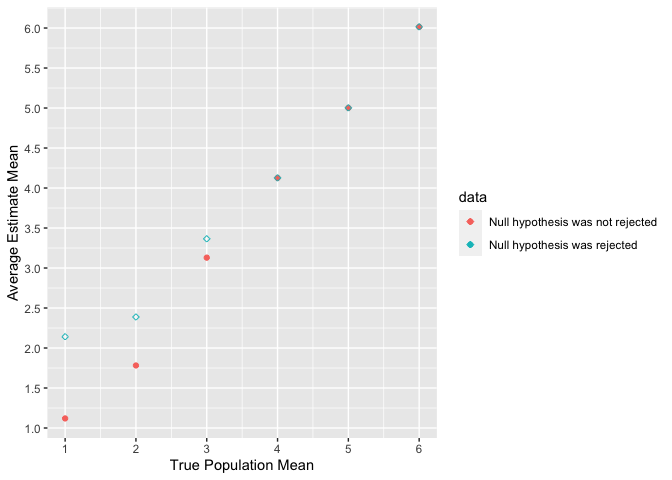
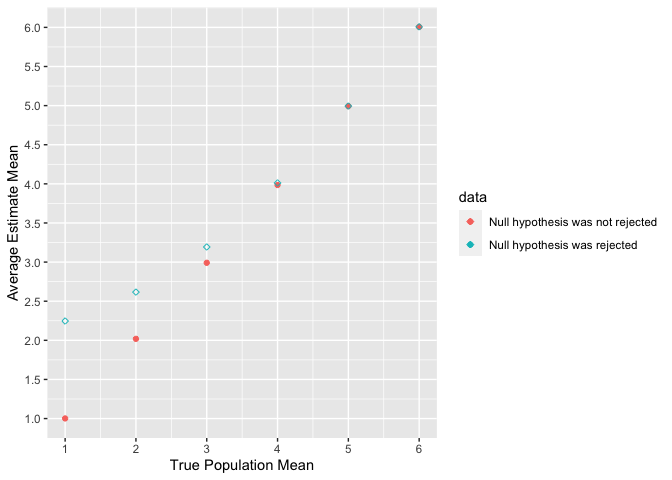
commit -- final

diff --git a/p8105_hw5_VK2480.md b/p8105_hw5_VK2480.md
@@ -1,4 +1,4 @@
-Homework-2
+Homework-5
 ================
 
 ## Library calls
@@ -15,10 +15,6 @@ library(tidyverse)
     ## ── Conflicts ────────────────────────────────────────── tidyverse_conflicts() ──
     ## ✖ dplyr::filter() masks stats::filter()
     ## ✖ dplyr::lag()    masks stats::lag()
-
-``` r
-library(readxl)
-```
 
 ## Problem 1
 
@@ -233,7 +229,10 @@ homicide_df = read_csv("homicide-data.csv") %>%
     ## ℹ Use `spec()` to retrieve the full column specification for this data.
     ## ℹ Specify the column types or set `show_col_types = FALSE` to quiet this message.
 
-Describe raw data:
+Describe raw data: This dataset contains 52179 rows and 12 variables. It
+provides information about homicides in 50 US cities. Some of the
+important variables in this dataset include: date of homicide, city,
+state, and the state/disposition of the homicide case.
 
 ``` r
 # create city_state variable
@@ -260,22 +259,36 @@ homicide_df = left_join(total_homicides_df, unsolved_homicides_df)
 
 ``` r
 # Prop.test for Baltimore
-baltimore_homicides = homicide_df %>%
-  filter(city == "Baltimore")
 
-balt_prop_test = prop.test(x = baltimore_homicides$unsolved_homicides, n = baltimore_homicides$total_homicides) %>%
-  broom::tidy() %>%
+# create function to return tidy version of prop.test results
+prop_test_results <- function(prop_x, prop_n) {
+  
+  prop_test_list = prop.test(prop_x, prop_n)
+  prop_test_list = broom::tidy(prop_test_list)
+}
+
+balt_prop_test = homicide_df %>%
+  filter(city == "Baltimore") %>%
+  mutate(
+    t_test = prop_test_results(prop_x = unsolved_homicides, prop_n = total_homicides)) %>%
+  unnest(cols = t_test) %>%
   select(estimate, conf.low, conf.high) %>%
   mutate(
     CI = str_c(conf.low, ",", conf.high)
   )
+```
+
+    ## Adding missing grouping variables: `city`
+
+``` r
 balt_prop_test
 ```
 
-    ## # A tibble: 1 × 4
-    ##   estimate conf.low conf.high CI                                 
-    ##      <dbl>    <dbl>     <dbl> <chr>                              
-    ## 1    0.646    0.628     0.663 0.627562457662644,0.663159860401662
+    ## # A tibble: 1 × 5
+    ## # Groups:   city [1]
+    ##   city      estimate conf.low conf.high CI                                 
+    ##   <chr>        <dbl>    <dbl>     <dbl> <chr>                              
+    ## 1 Baltimore    0.646    0.628     0.663 0.627562457662644,0.663159860401662
 
 ``` r
 # Run prop.test for each of the cities in your dataset, and extract both the proportion of unsolved homicides and the confidence interval for each city.
@@ -325,33 +338,17 @@ sim_mean_pvalue = function(mu = 0, sigma = 5, samp_num = 30) {
   sim_data %>% 
     summarize(
       mu_hat = mean(x),
-      p_value = broom::tidy(t.test(x))[[3]],
+      p_value = broom::tidy(t.test(x))[[3]]
     )
 }
 
-a_sampl = rnorm(30, 2, 0.5)
-t.test(a_sampl)
-```
 
-    ## 
-    ##  One Sample t-test
-    ## 
-    ## data:  a_sampl
-    ## t = 24.915, df = 29, p-value < 2.2e-16
-    ## alternative hypothesis: true mean is not equal to 0
-    ## 95 percent confidence interval:
-    ##  1.893675 2.232374
-    ## sample estimates:
-    ## mean of x 
-    ##  2.063025
-
-``` r
 ## step 2: Generate 5000 simulation datasets with mu=0, using the above function
 
 sim0_results_df = 
   expand_grid(
     mu = 0,
-    iter = 1:50
+    iter = 1:5000
   ) %>% 
   mutate(
     estimate_df = map(mu, sim_mean_pvalue)
@@ -364,7 +361,7 @@ sim0_results_df =
 sim_results_df = 
   expand_grid(
     mu = c(1, 2, 3, 4, 5, 6),
-    iter = 1:50
+    iter = 1:5000
   ) %>% 
   mutate(
     estimate_df = map(mu, sim_mean_pvalue)
@@ -461,4 +458,4 @@ plot2
 
 The sample average of μ̂ across tests for which the null is rejected is
 not equal to the true value of μ when μ is low, but it gets closer and
-almost equal to μ as the value of μ increases. WHY???
+almost equal to μ as the value of μ increases.
